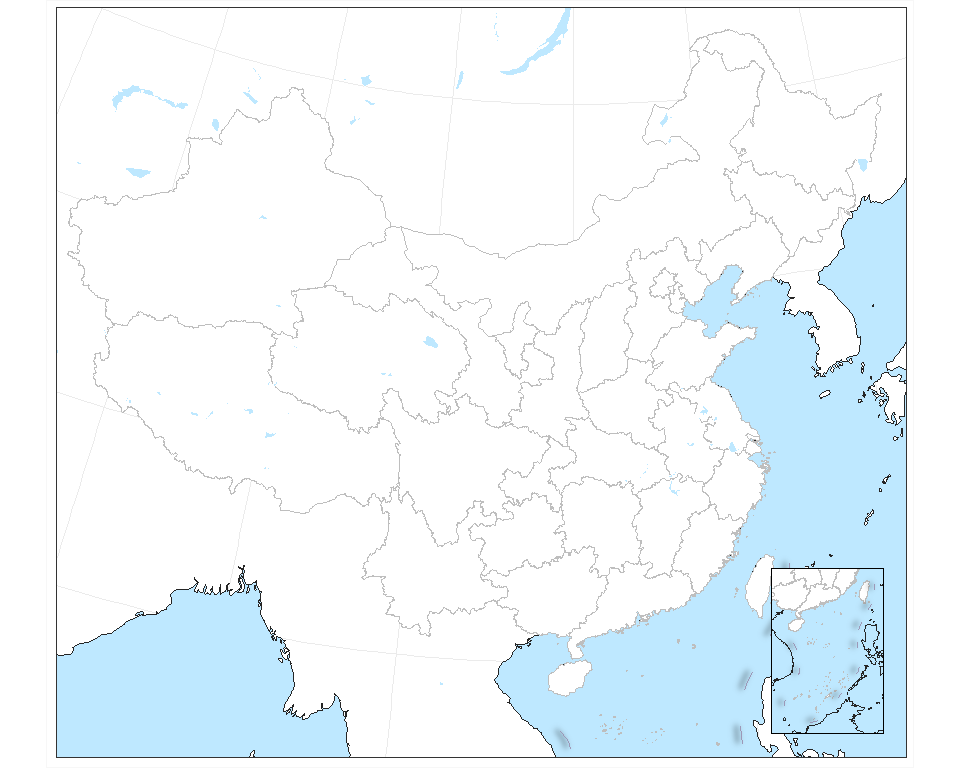
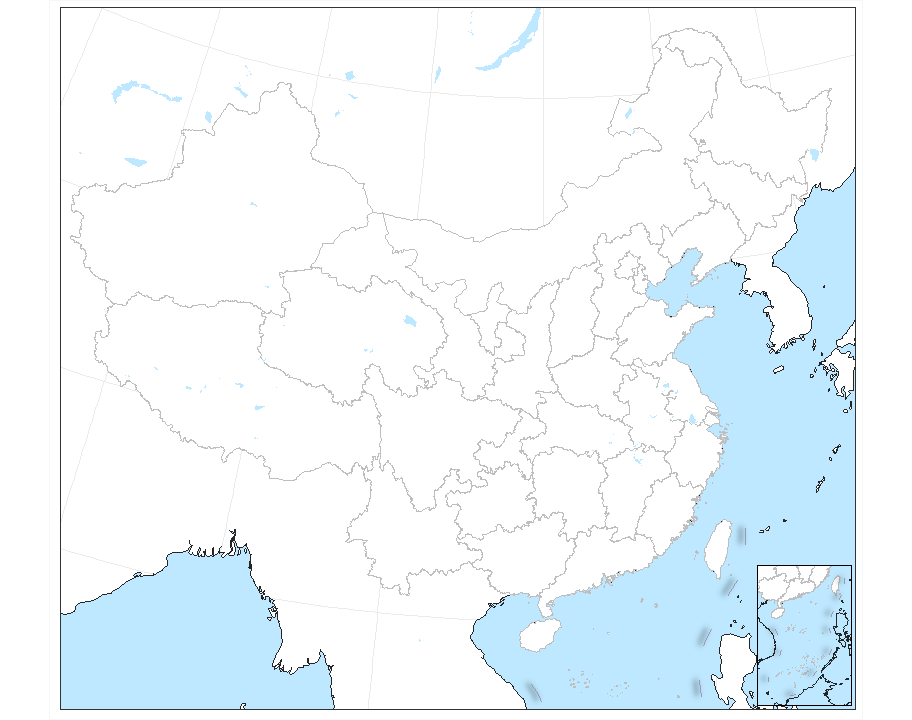
update readme

diff --git a/README.md b/README.md
@@ -95,9 +95,8 @@ fig1 +
 
 ggdraw() +
   draw_plot(china.main) +
-  draw_plot(china.ocean,x = .79, y = .04,
-            width = .14, height = .22) -> cnmap1
-cnmap1
+  draw_plot(china.ocean,x = .815, y = .015,
+            width = .13, height = .20)
 ```
 
 <img src="man/figures/README-map1-1.png" width="100%" />
@@ -152,13 +151,7 @@ ggdraw() +
             halign = 0.5,valign = 0.5,
             height = 0.2,
             x = 0.427,
-            y = 0.019) -> cnmap2
+            y = 0.019)
 ```
 
-<img src="man/figures/README-map2-1.png" width="100%" /><img src="man/figures/README-map2-2.png" width="100%" />
-
-``` r
-cnmap2
-```
-
-<img src="man/figures/README-map2-3.png" width="100%" />
+<img src="man/figures/README-map2-1.png" width="100%" /><img src="man/figures/README-map2-2.png" width="100%" /><img src="man/figures/README-map2-3.png" width="100%" />
